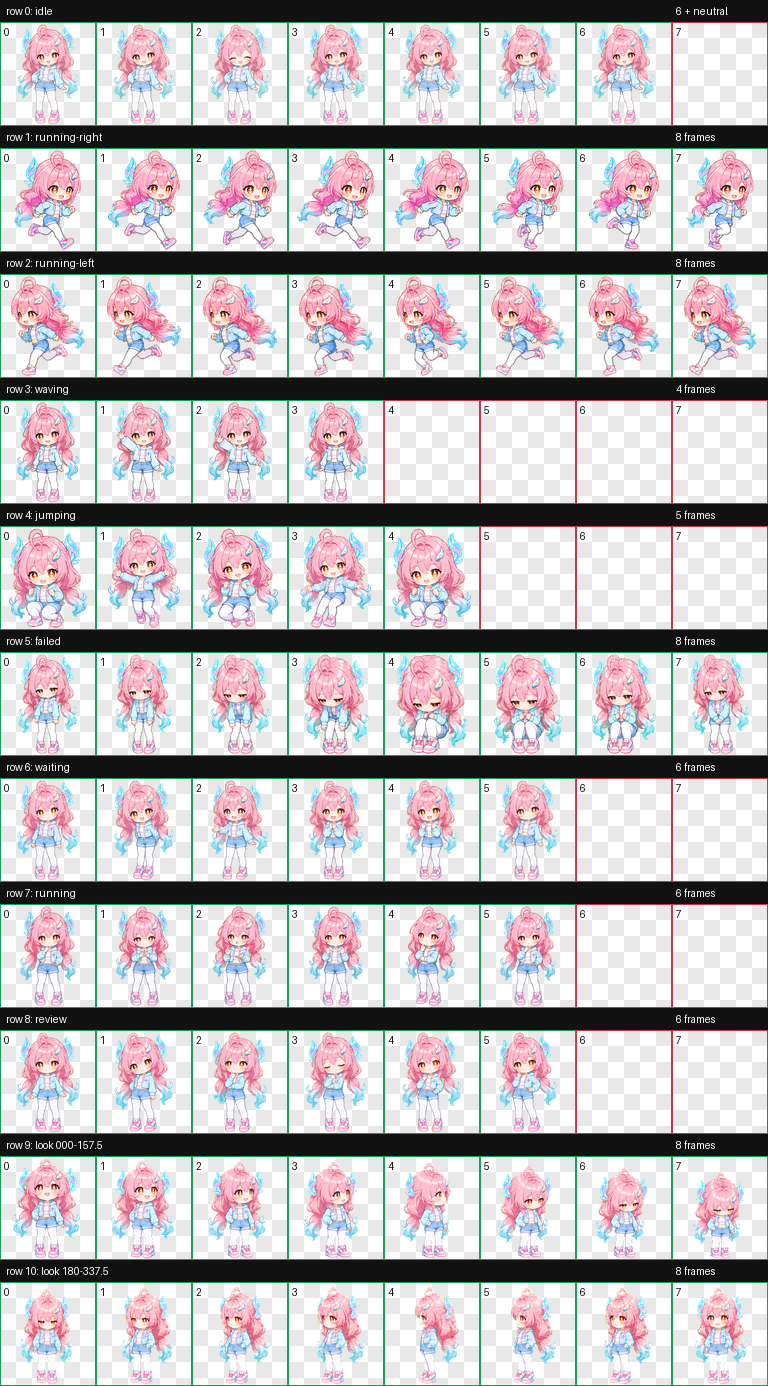
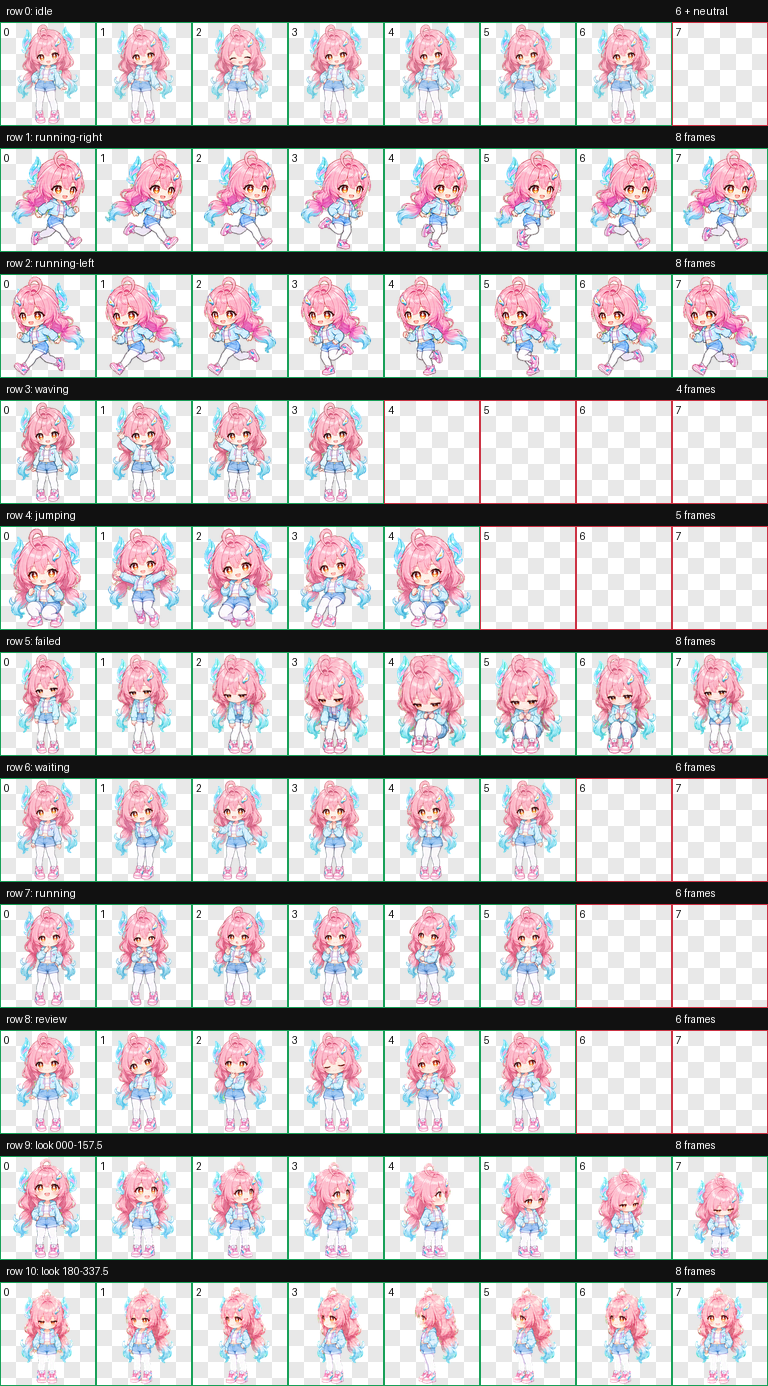
Improve running animations

Changed region(s): [[0.0, 0.0931, 1.0, 0.2792]]

diff --git a/README.md b/README.md
@@ -83,3 +83,11 @@ cp pet.json spritesheet.webp "$PET_DIR/"
 ```
 
 若要创建衍生版本，请保持 `pet.json` 中的 `id` 与安装目录名一致，并让 `spritesheetPath` 指向同目录下的图集文件。
+
+## 最新更新
+
+### 2026-07-22
+
+- 调整 row 1 `running-right` 的动作帧顺序，使奔跑步态和循环衔接更加顺畅。
+- 以已通过检查的 `running-right` 为动作及时序基准，逐帧水平镜像生成 row 2 `running-left`；保持帧序不反转，让左右奔跑拥有一致的交替步态。
+- 重新组装并检查完整 v2 图集；人物边缘、动作方向和循环闭合均通过视觉复核，最终校验为 0 错误、0 警告。
